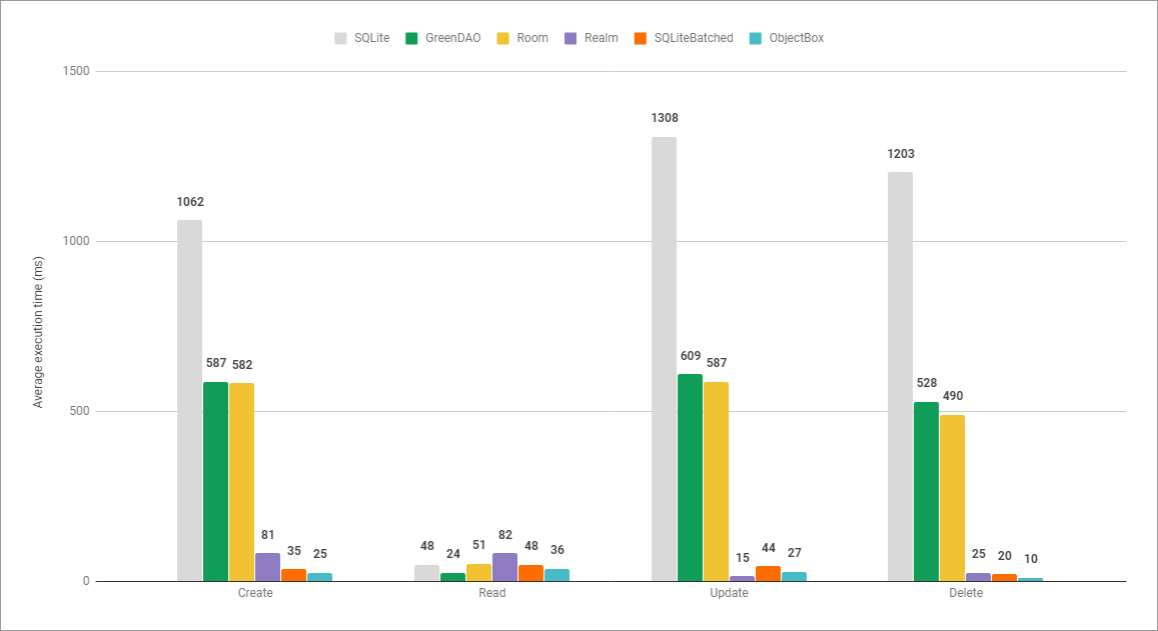
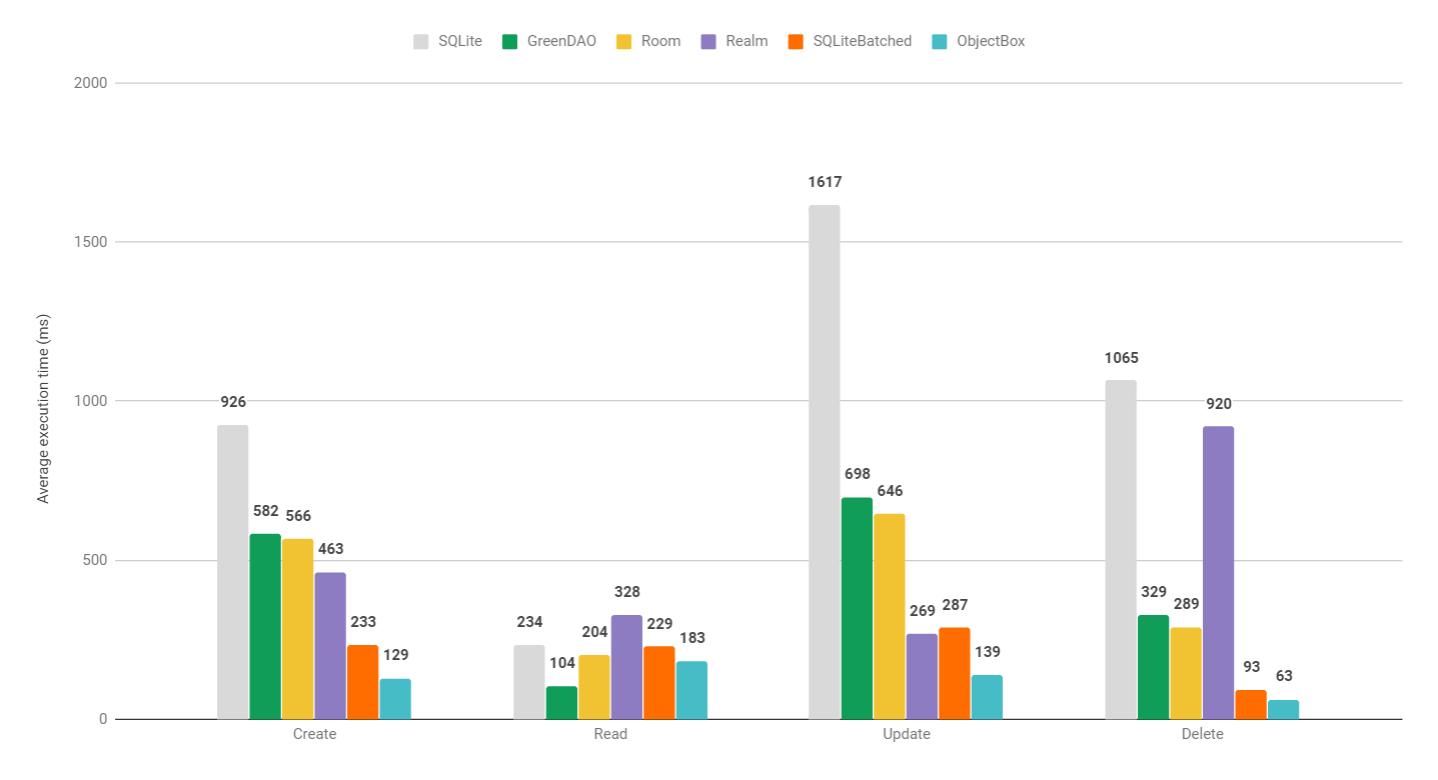
Update results

diff --git a/README.md b/README.md
@@ -2,7 +2,7 @@
 
 Benchmark app to compare speed of CRUD operations of different android database management systems.
 
-Test are executed with a collection of 10000 objects. Execution times are averaged between 100 runs. Tests were run on the emulator.
+Test are executed with a collection of 10000 objects. Execution times are averaged between 10 runs. Tests were run on the Nexus 5X.
 
 - ```create(data: List<T>)``` Inserts list of objects into database.
 
@@ -26,12 +26,12 @@ data class Person (
 
 |Library|create|read|update|delete|
 |:---:|:---:|:---:|:---:|:---:|
-|SQLite|1062|48|1308|1203|
-|GreenDAO|587|24|609|528|
-|Room|582|51|587|490|
-|Realm|81|82|15|25|
-|SQLiteBatched|35|48|44|20|
-|ObjectBox|25|36|27|10|
+|SQLite|926|234|1617|1065|
+|GreenDAO|582|104|698|329|
+|Room|566|204|646|289|
+|Realm|463|328|269|920|
+|SQLiteBatched|233|229|287|93|
+|ObjectBox|129|183|139|63|
 
 <br>
 
